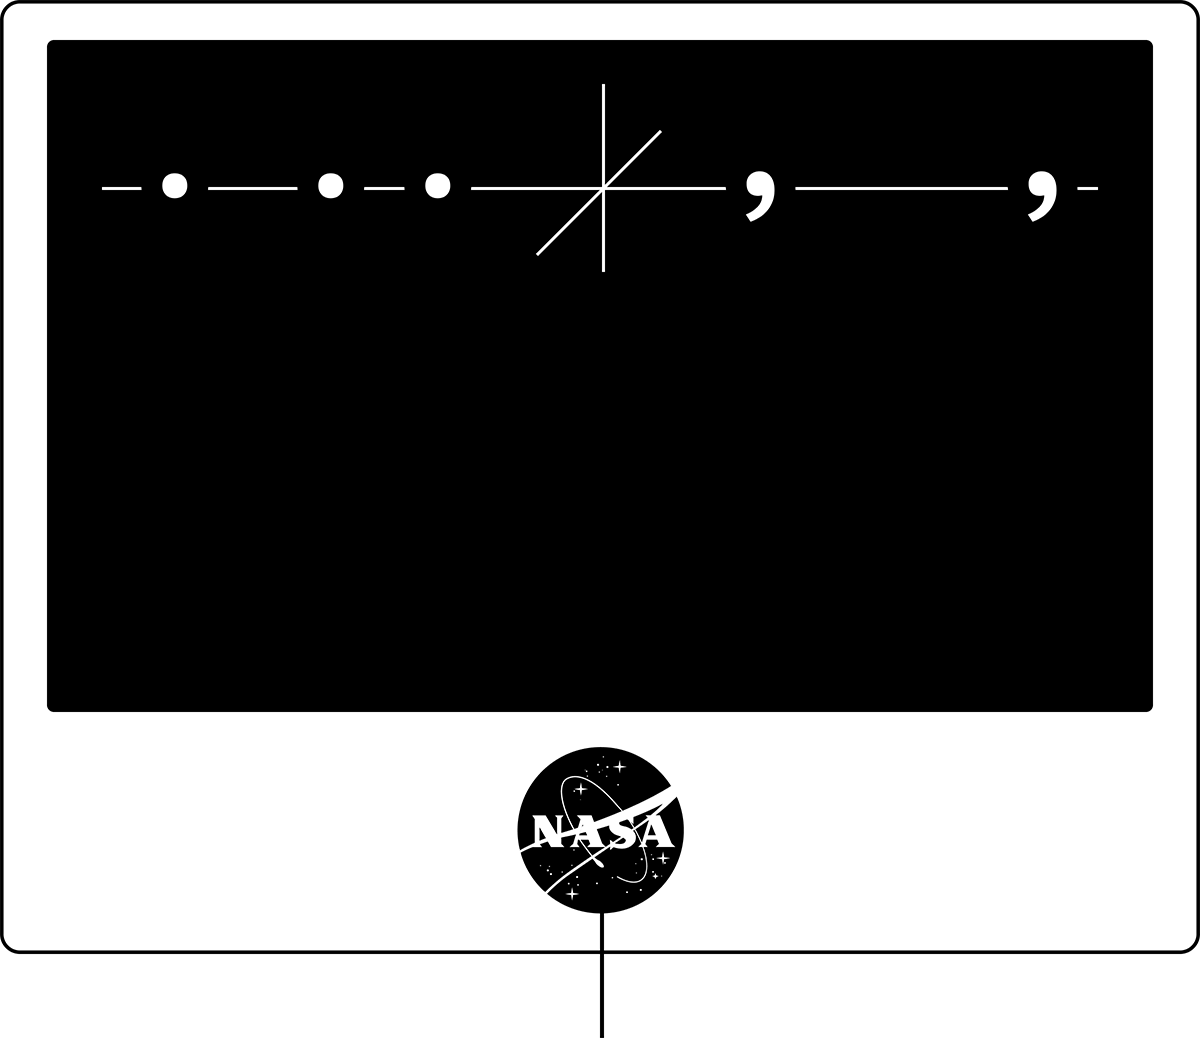
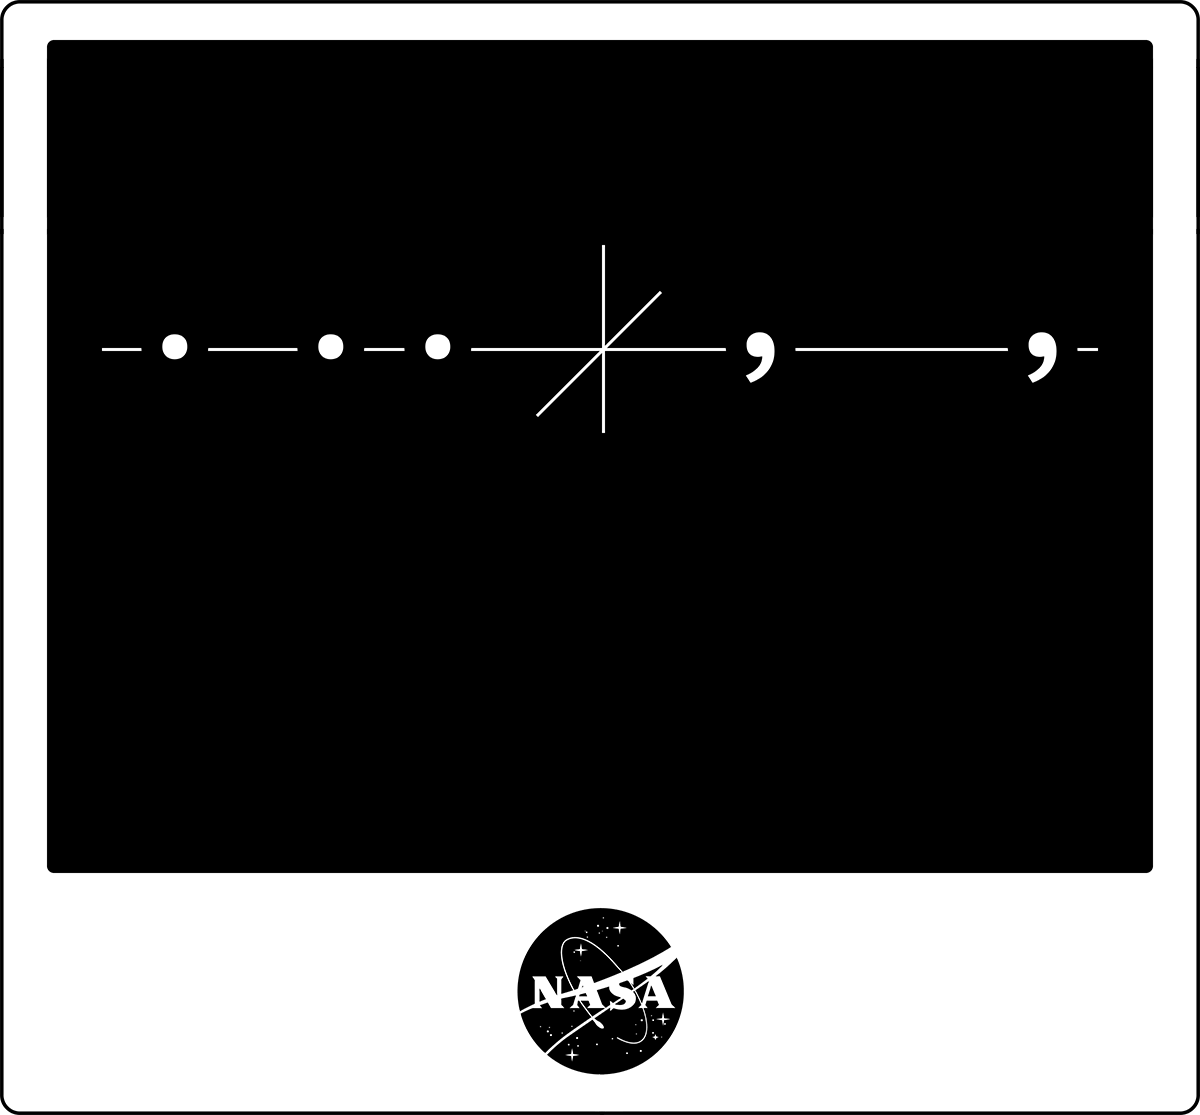
пре-финал (04)

diff --git a/index.html b/index.html
@@ -36,8 +36,11 @@
           </td>
       </tr>
       </table>
-      <br /><br /><br /><br /><br /><br /><br /><br />
-      <img src="images/0-0.png" width="885" />
+      <br /><br /><br /><br /><br /><br /><br /><br /><br /><br /><br /><br /><br /><br /><br /><br />
+      <p class="gigant">PT Mono</p>
+      <br /><br /><br /><br /><br />
+      <img src="images/0-0-0.png" width="641.26" />
+      <br /><br /><br /><br />
 
     <div class="menu">
       <ul>
@@ -68,67 +71,69 @@
     </ul>
   </div>
 
-  <br /><br /><br /><br /><br /><br /><br /><br />
+  <br /><br /><br /><br /><br /><br /><br /><br /><br />
 
     <div class="backMariner">
       <img src="images/1.png" width="1200" />
-      <h1 id="1">Почему ракета «Маринер-1»<br />сделала сначала «ЖЖЖЖЖ»,<br />а затем «БДЫЩЬ?»</h1>
-      <img src="images/2.png" width="1200" />
-      <br />
-      <p>Космическая гонка начала 1960-х. НАСА разворачивает программу «Маринер» по изучению Венеры, Марса и Меркурия. Первый аппарат обходится в $ 18,5 миллионов. Его запуск назначают на 22 июля 1962 года. Через 5 минут после старта «Маринер-1» теряет связь с Землей, и управление на себя берет бортовой компьютер. В программном обеспечении есть ошибка — аппарат сильно отклоняется влево, в целях безопасности аппарат подорвали.</p>
-      <p>Ошибка была до смешного мелкой: в написанном от руки описании требований для программы была пропущена черточка над одним символом.</p>
-      <br />
 
-    <blockquote>Точка или запятая? Не важно, ведь PT Mono создан для написания программных кодов, он отлично читается с экрана уставшими глазами!</blockquote>
+
+      <h1>PT Mono — моноширинный гротеск, идеально вписывающийся в мир информационных технологий</h1>
 
       <div class="backDisplay">
-        <br /><br /><br /><br /><br /><br /><br /><br /><br /><br /><br /><br /><br /><br /><br />
+        <br /><br /><br />
         <div class="textDisplay">
           <br />
-          <p class="compMal">Иногда утверждается, что ошибка была вызвана тем, что при написании программы была поставлена точка&nbsp;вместо запятой. В языке ФОРТРАН, на котором была написана программа, выражение изменило свой смысл:</p>
-          <br />
+          <p class="compMal">22 июля 1962 года. Через 5 минут после старта ракета «Маринер-1» теряет связь с Землей, и управление на себя берет бортовой компьютер. В программном обеспечении есть ошибка — аппарат сильно отклоняется влево, в целях безопасности аппарат подрывают.</p>
+          <p class="compMal">Ошибка была до смешного мелкой: в написанном от руки описании требований для программы была пропущена черточка над одним символом.</p>
+          <br /><br /><br /><br /><br /><br /><br /><br /><br /><br /><br /><br />
+
+          <p class="compMal">Иногда утверждается, что ошибка была вызвана тем, что при написании программы была поставлена точка вместо запятой. В языке ФОРТРАН, на котором была написана программа, выражение изменило свой смысл:</p>
+          <br /><br />
           <p class="bigtext">DO 17 I = 1, 10</p>
           <br />
           <p class="compMal">что представляет собой описание цикла (повтор вычислений 10 раз) было интерпретировано как:</p>
-          <br />
+          <br /><br />
           <p class="bigtext">DO17I   = 1.10</p>
           <br />
           <p class="compMal">то есть как присвоение переменной DO17I — так как пробельные символы не учитываются языком.</p>
+
         </div>
       </div>
+
+      <h2>Точка или запятая? Не важно, ведь PT Mono создан для написания программных кодов, он отлично читается с экрана уставшими глазами!</h2>
+      <br/><br/><br/><br/>
+      <h1>PT Mono бесплатный!</h1>
+      <h2>И отлично смотрится на навигационных табличках, дорожных знаках, шильдах и т.п.</h2>
+      <br/><br/>
+      <img src="images/2.png" width="1200" />
 
     </div>
 
     <div class="backFobos1">
+      <br/><br/><br/><br/><br/><br/><br/>
+      <h1 class="colorInvert">Создатели шрифта потратили немало времени, чтобы наборщик текста не путал похожие символы: в PT Mono все продумано до мелочей!</h1>
+      <br/><br/>
       <img src="images/4.png" width="1200">
-      <blockquote class="colorInvert" cite="http://">
-        Создатели шрифта потратили немало времени, чтобы наборщик текста&nbsp;не путал похожие символы: в PT Mono все продумано до мелочей!
-      </blockquote>
+      <br/><br/>
+
 
       <img src="images/5-2.png" width="660">
-      <h1 id="2" class="colorInvert">Что ж, ты,<br />«Фобос», сдал назад?</h1>
+      <h1 id="2" class="colorInvert">PT Mono удобно набирать заголовки и надписи крупным кеглем</h1>
       <img src="images/6-6.png" width="598" />
       <br /><br /><br /><br /><br />
       <img src="images/7.png" width="355" />
       <br /><br />
-      <blockquote class="colorInvert" cite="http://">
-        Шильды, шевроны, знаки — во всем этом <br> PT Mono чувствует себя, как рыба в воде!
-      </blockquote>
     </div>
 
     <div class="backFobos2">
-      <h2>И все из-за часов</h2>
-      <p>«Фобос-Грунт» — российская автоматическая межпланетная станция, предназначалась для доставки образцов грунта со спутника Марса, Фобоса, на Землю, определения физико-химических характеристик грунта Фобоса, исследований происхождения спутников Марса, процессов взаимодействия его атмосферы и поверхности, взаимодействия малых тел Солнечной системы с&nbsp;солнечным ветром.</p>
-      <p>АМС была запущена 9 ноября 2011 года, однако в результате нештатной ситуации, когда не&nbsp;произошло расчётного срабатывания маршевой двигательной установки перелётного модуля, межпланетная станция не смогла покинуть окрестности Земли, оставшись на низкой околоземной орбите. 15 января 2012 года АМС сгорела в плотных слоях земной атмосферы.</p>
-      <p><strong>Причиной нештатной ситуации могла стать рассинхронизация на 1 час между бортовым временем, установленным на энергонезависимых часах станции (МСК — UTC+4 в 2011 году), и декретным московским временем (ДМВ — UTC+3), по которому была рассчитана часть граммы полёта!</strong></p>
+      <p>15 января 2012 года российская автоматическая межпланетная станция «Фобос-Грунт» сгорела в плотных слоях земной атмосферы.</p>
+      <p><strong>Причиной нештатной ситуации могла стать рассинхронизация на 1 час между бортовым временем, установленным на энергонезависимых часах станции (МСК — UTC+4 в 2011 году), и декретным московским временем (ДМВ — UTC+3), по которому была рассчитана часть циклограммы полёта. </strong></p>
       <br />
       <img src="images/8.png" width="66" />
       <br /><br /><br />
+      <h1>PT Mono отлично подойдет для оформления циферблата как электронных,так и обычных, аналоговых часов. И пусть программисты не путают время!</h1>
       <img src="images/9.png" width="1200" />
       <br />
-      <blockquote cite="http://">
-        PT Mono отлично подойдет для оформления циферблата как электронных, так и&nbsp;обычных, аналоговых часов. И пусть программисты не путают время!
-      </blockquote>
       <img src="images/10.png" width="1200" />
       <br /><br />
       <img src="images/8.png" width="66" />
@@ -138,34 +143,30 @@
     <div class="backMars">
       <br /><br /><br /><br /><br /><br /><br /><br />
 
-      <h1 id="3">Как спутник <br> «Mars Climate Orbitel» <br> летал-летал, а потом сделал <br> «ПШШШШШШШ»</h1>
+      <h1 id="3">В шрифте доступны 2 начертания:<br/>PT MONO Bold <br/>и<br/><span style="font-weight: normal">PT MONO Regular</span></h1>
 
       <img class="positionBottom" src="images/11.png" width="768" />
     </div>
 
     <div class="backMars2">
       <br /><br /><br /><br /><br /><br />
-      <h2>Из-за фатальной ошибки аппарат оказался слишком близко к поверхности Марса.</h2>
-      <p>Аппарат летел к Марсу 9 месяцев. Mars Climate Orbiter 23 сентября 1999 года должен был выдать тормозной импульс и перейти на высокоэллиптическую орбиту с периодом 14 часов, а&nbsp;затем в течение двух месяцев с помощью ряда аэродинамических маневров в верхней атмосфере Марса довести орбиту до круговой. В расчетное время на высоте 193 км аппарат включил двигатели на торможение. Через 5 минут MCO запланировано ушел за Марс и больше никаких сигналов с него не поступало. Из анализа данных было предположено, что аппарат прошел над&nbsp;поверхностью Марса на высоте 57 км вместо расчетных 110 км и распался в атмосфере.</p>
-      <p>Субподрядчик, который работал над многими инженерными задачами, <strong>не выполнил простейшего преобразования английских единиц измерения в метрическую систему</strong>. Диспетчеры пришли к&nbsp;выводу, что спутник на большой скорости вошел в марсианскую атмосферу, где из-за возникших перегрузок его системы связи вышли из строя.</p>
+
+      <p>Mars Climate Orbiter 23 сентября 1999 года должен был выдать тормозной импульс и перейти на высокоэллиптическую орбиту с периодом 14 часов. В расчетное время на высоте 193 км аппарат включил двигатели на торможение. Через 5 минут MCO запланировано ушел за Марс и больше никаких сигналов с него не поступало. Из анализа данных было предположено, что аппарат распался в атмосфере.</p>
+      <p><strong>В итоге выяснилось, что субподрядчик, который работал над многими инженерными задачами, не выполнил простейшего преобразования английских единиц измерения в метрическую систему. И спутник на большой скорости сгорел в марсианской атмосфере.</strong></p>
       <br /><br />
+      <h1>Перевод из метрической в британскую систему — это всегда сложно. PT Mono поможет справиться с задачей и тут!</h1>
       <img src="images/12.png" width="795" />
       <br />
-      <blockquote cite="http://">
-        Перевод из метрической в британскую — это всегда весело <br> и непривычно. PT Mono поможет справиться с задачей и тут!
-      </blockquote>
     </div>
 
     <div class="backPre">
-    <!-- <div class="positionBottom" class="backPre"> -->
       <div class="positionBottom2"><img src="images/13.png" width="1201" /></div>
     </div>
 
     <div class="backFinal">
-      <h1 id="4">30 секунд до Марса <br> и почему ракета «Ariane 5» <br> не взлетела?</h1>
-      <p>4 июня 1996 года случился неудачный запуск ракеты-носителя Ariane 5, которая была разработана Европейским космическим агентством. Ракета разрушилась на 39-й секунде полета из-за неверной работы бортового программного обеспечения. Эта история запомнилась, как одна из самых дорогостоящих компьютерных ошибок.</p>
-      <p>Программное обеспечение, установленное на борту Ariane 5, было разработано для более ранней модели – Ariane 4. Более мощный двигатель Ariane 5 спровоцировал баг, не встречавшийся в&nbsp;предыдущих версиях ПО.</p>
-      <p><strong>В сущности, программа попыталась записать 64-разрядное число в 16-разрядное пространство. Возникло переполнение, в результате которого отказал и основной, и резервный компьютер.</strong></p>
+      <p id="4">4 июня 1996 года случился неудачный запуск ракеты-носителя Ariane 5, Ракета разрушилась на 39-й секунде полета из-за неверной работы бортового программного обеспечения.</p>
+      <p><strong>Программа попыталась записать 64-разрядное число в 16-разрядное пространство. Возникло переполнение, в результате которого отказал и основной, и резервный компьютер.</strong></p>
+      <h1><strong>PT Mono с успехом используется <br/> в инфографике:</h1>
       <br>
       <img src="images/14.png" width="1009" />
       <br />

diff --git a/stylesheets/style.css b/stylesheets/style.css
@@ -23,12 +23,13 @@ div {
 
 .backTitle {
   background: url('../images/back/0-4.png') top center no-repeat black;
-  height: 1500px;
+  height: 1580px;
 }
 
 .backMariner {
   background: url('../images/back/2.png') top center no-repeat white;
-  height: 2400px;
+  height: 2750px;
+  /* border: 10px solid red; */
 }
 
 .backDisplay {
@@ -43,8 +44,8 @@ div {
 }
 
 .backFobos1 {
-  background: url('../images/back/3-2.png') top center no-repeat black;
-  height: 2647px;
+  background: url('../images/back/3-2.png') bottom center no-repeat black;
+  height: 3000px;
 }
 
 .backFobos2 {
@@ -63,14 +64,14 @@ div {
 }
 
 .backPre {
-  background: url('../images/back/6.png') top center no-repeat white;
+  background: url('../images/back/6.png') bottom center no-repeat white;
   height: 1500px;
   border: 1px solid white;
 }
 
 .backFinal {
   background: url('../images/back/7-2.png') bottom center no-repeat white;
-  height: 1750px;
+  height: 1600px;
 }
 
 .backFooter {
@@ -103,6 +104,8 @@ h2 {
 	font-size: 36px;
 	line-height: 46px;
   width: 996px;
+  text-align: center;
+
 }
 
 p {
@@ -146,6 +149,12 @@ blockquote {
 	text-align: center;
   width: 795px;
 
+}
+
+.gigant {
+  font-size: 220px;
+  color: white;
+  text-align: center;
 }
 
 /* КЛАССЫ ДЛЯ ТЕКСТОВ (изменение паддингов и цвета) ————————————————————————————*/
